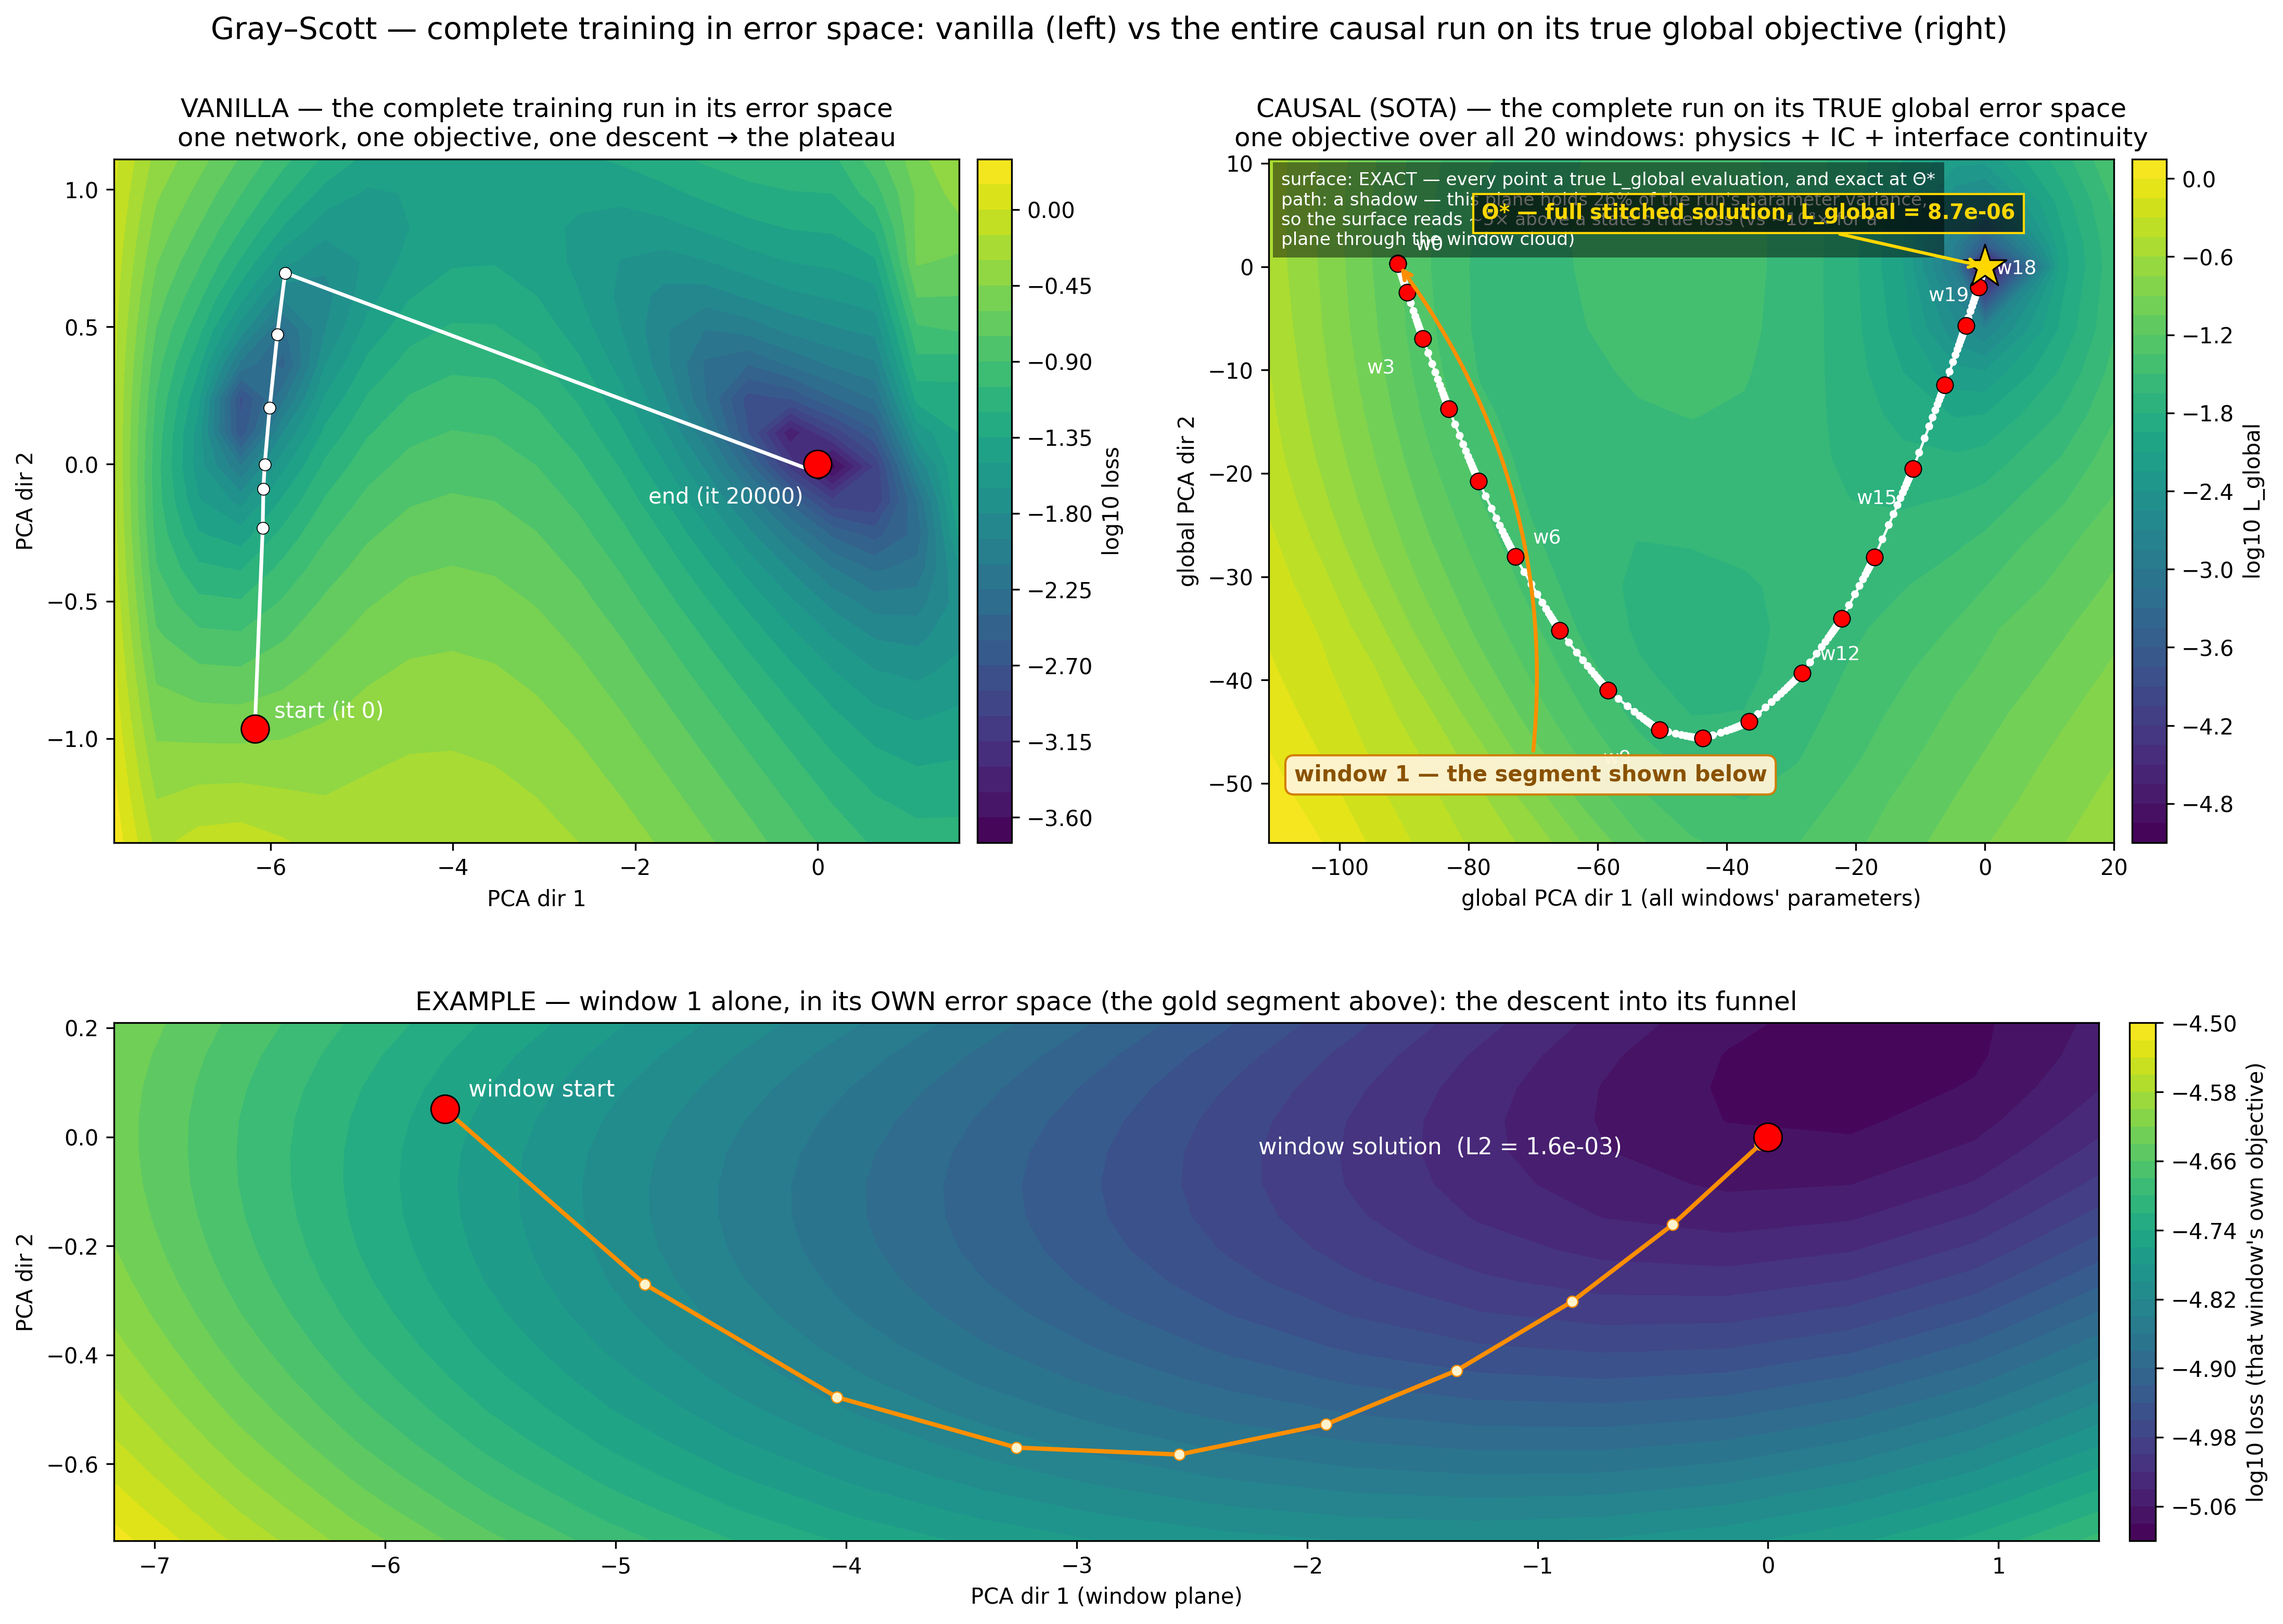
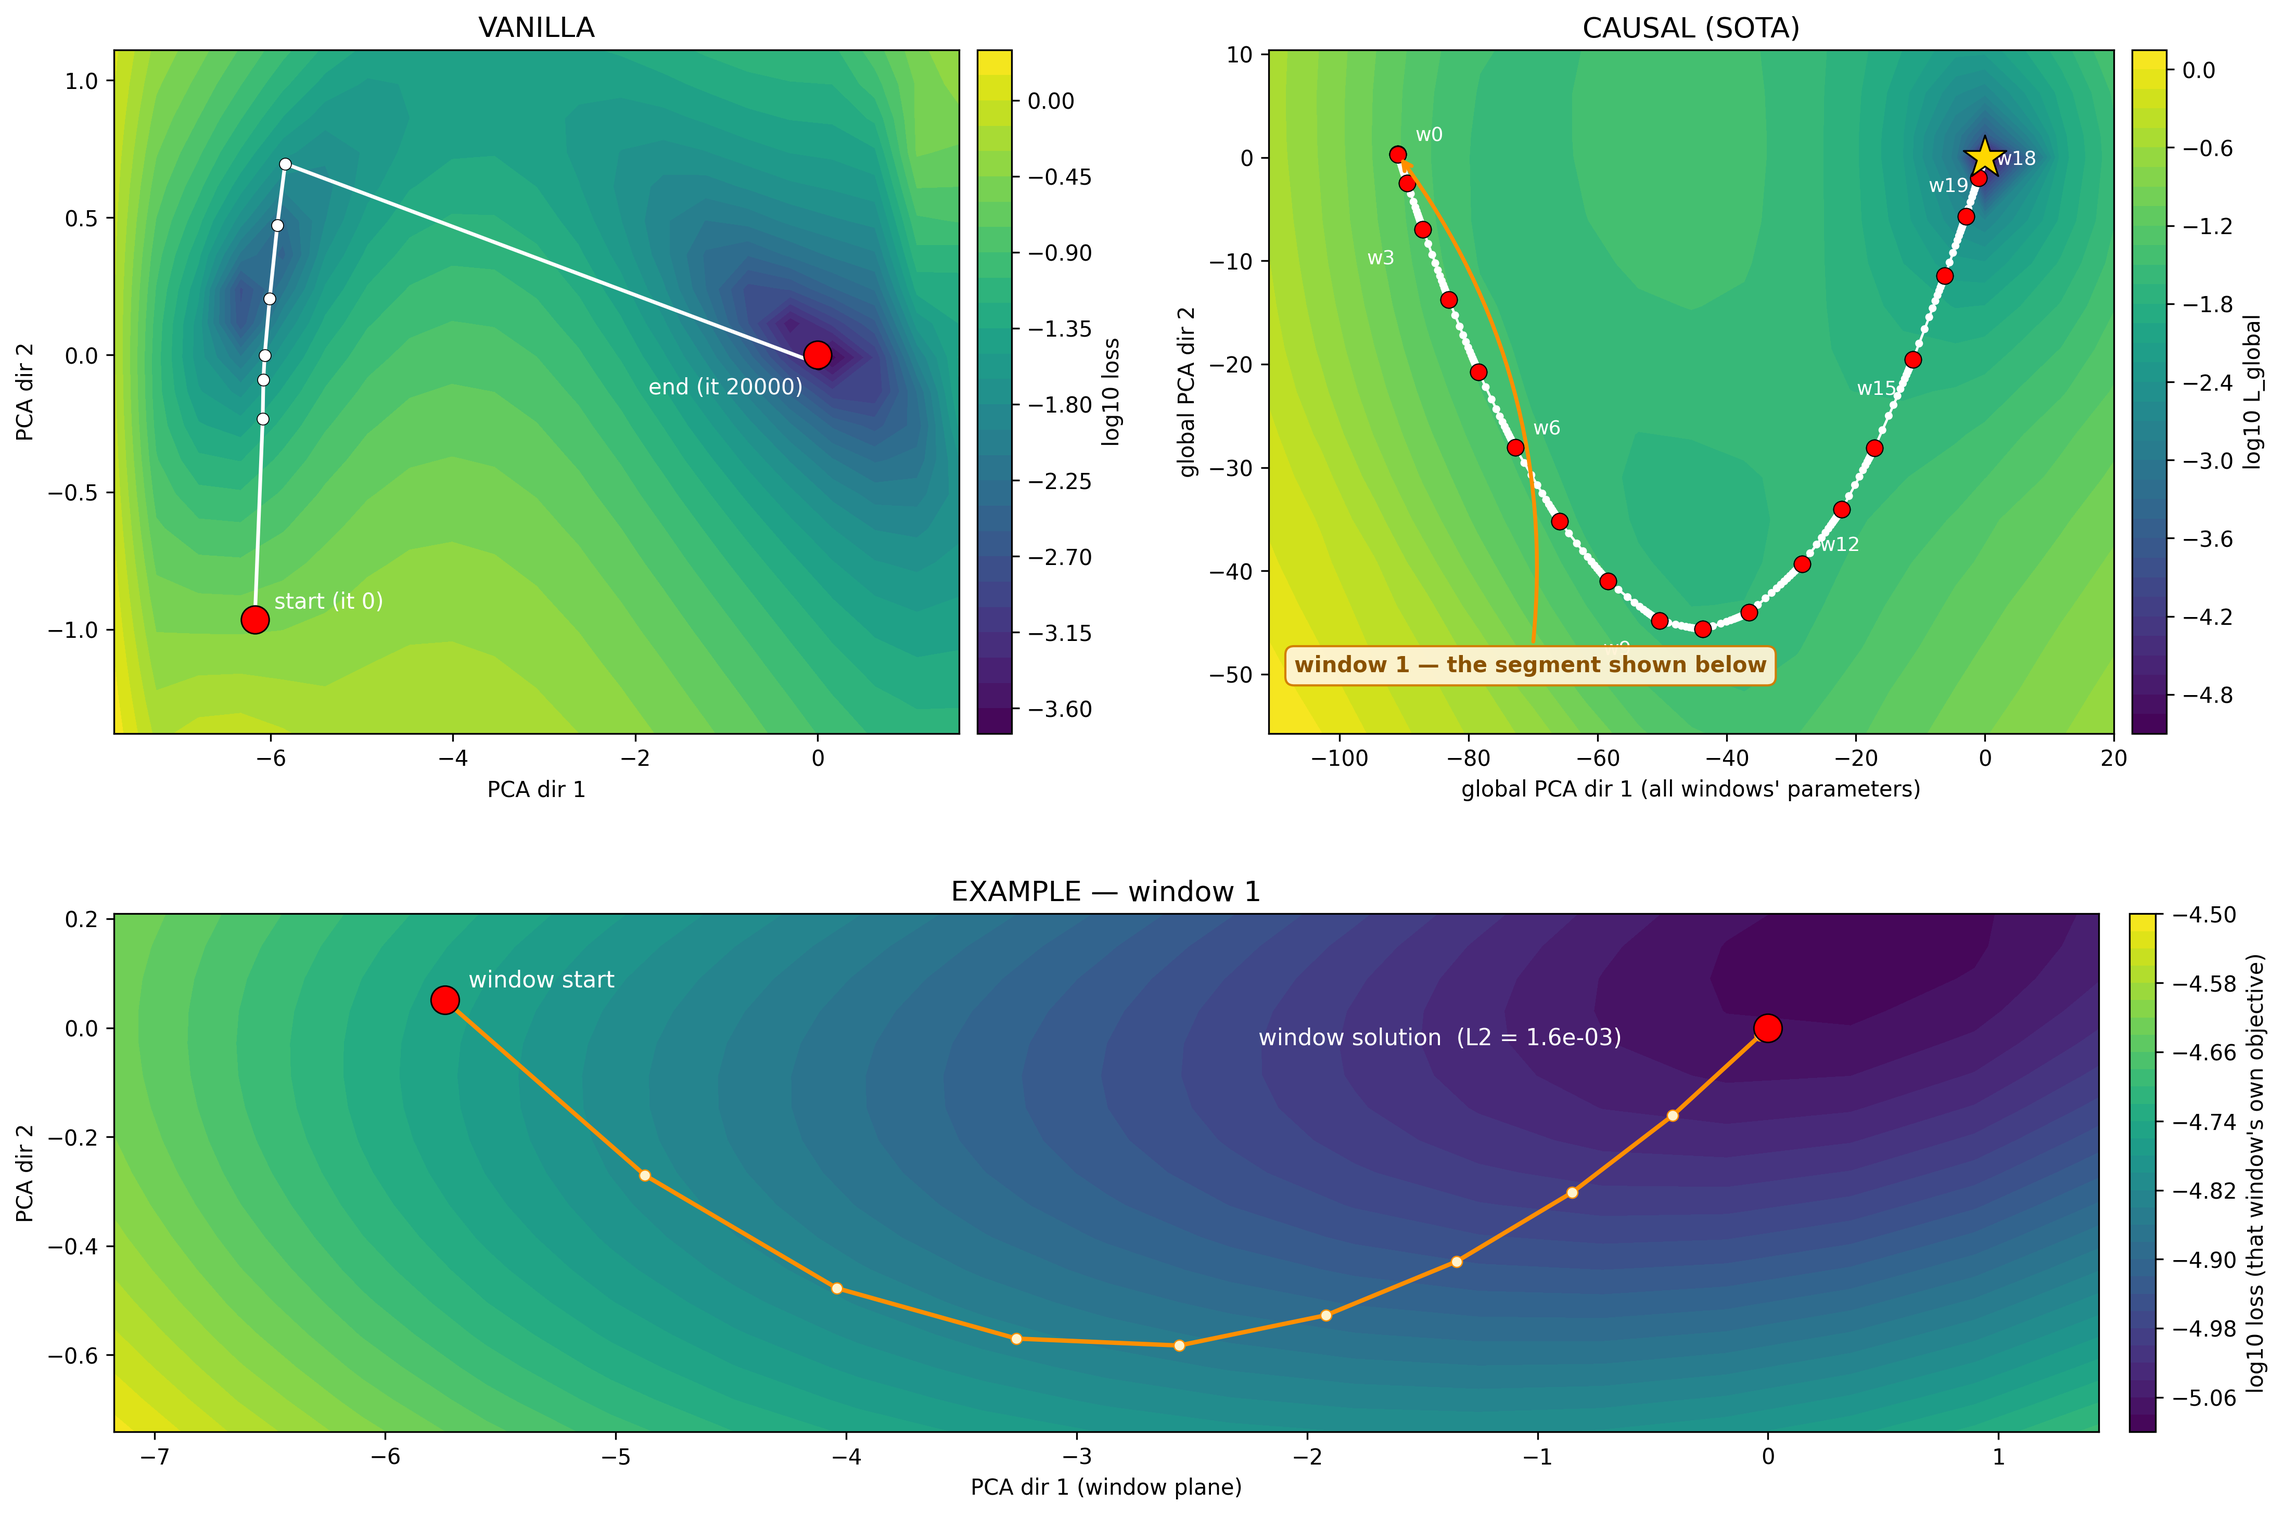
fig31: strip in-figure prose (suptitle, fidelity box, Theta* label, descriptive subtitles) - the report caption carries that text

diff --git a/analysis/plot_three_panel.py b/analysis/plot_three_panel.py
@@ -66,8 +66,7 @@ def main():
                 fontsize=10, xytext=(9, 5), textcoords="offset points")
     ax.annotate(f"end (it {st[-1]})", (van["a_traj"][-1], van["b_traj"][-1]), color="w",
                 fontsize=10, xytext=(-78, -18), textcoords="offset points")
-    ax.set_title("VANILLA — the complete training run in its error space\n"
-                 "one network, one objective, one descent → the plateau", fontsize=12)
+    ax.set_title("VANILLA", fontsize=13)
     ax.set_xlabel("PCA dir 1"); ax.set_ylabel("PCA dir 2")
 
     # ---------------- right: causal on the TRUE global landscape ----------------
@@ -106,23 +105,9 @@ def main():
                                 connectionstyle="arc3,rad=0.2"),
                 bbox=dict(facecolor="#fff4d6", alpha=0.95, edgecolor="#d17a00",
                           boxstyle="round,pad=0.4"))
-    ax.annotate(f"Θ* — full stitched solution, L_global = {res0+ic0+cont0:.1e}", (0, 0),
-                color="gold", fontsize=9.5, fontweight="bold", xytext=(-232, 22),
-                textcoords="offset points", zorder=9,
-                arrowprops=dict(arrowstyle="->", color="gold", lw=1.5),
-                bbox=dict(facecolor="#00000099", edgecolor="gold"))
-    ax.set_title(f"CAUSAL (SOTA) — the complete run on its TRUE global error space\n"
-                 f"one objective over all {N} windows: physics + IC + interface continuity",
-                 fontsize=12)
+    ax.set_title("CAUSAL (SOTA)", fontsize=13)
     ax.set_xlabel("global PCA dir 1 (all windows' parameters)")
     ax.set_ylabel("global PCA dir 2")
-    ax.text(0.015, 0.982,
-            "surface: EXACT — every point a true L_global evaluation, and exact at Θ*\n"
-            f"path: a shadow — this plane holds {ev2*100:.0f}% of the run's parameter variance,\n"
-            f"so the surface reads ~{ratio:.0f}× above a state's true loss (vs ~10⁸× for a\n"
-            "plane through the window cloud)",
-            transform=ax.transAxes, fontsize=8.2, va="top", color="w",
-            bbox=dict(facecolor="#00000077", edgecolor="none"))
 
     # ---------------- bottom: the example window alone ----------------
     ax = fig.add_subplot(gs[1, :])
@@ -140,12 +125,9 @@ def main():
                 xytext=(11, 6), textcoords="offset points")
     ax.annotate(f"window solution  (L2 = {float(cache['p0_l2']):.1e})", (0, 0), color="w",
                 fontsize=10.5, xytext=(-235, -8), textcoords="offset points")
-    ax.set_title(f"EXAMPLE — window {hl} alone, in its OWN error space (the gold segment above): "
-                 "the descent into its funnel", fontsize=12)
+    ax.set_title(f"EXAMPLE — window {hl}", fontsize=13)
     ax.set_xlabel("PCA dir 1 (window plane)"); ax.set_ylabel("PCA dir 2")
 
-    fig.suptitle(f"{cfg['title']} — complete training in error space: vanilla (left) vs the entire "
-                 f"causal run on its true global objective (right)", fontsize=14, y=0.96)
     fig.savefig(f"{OUT}/fig31_vanilla_vs_global_{args.case}.png", dpi=args.dpi,
                 bbox_inches="tight", facecolor="white")
     print(f"saved fig31_vanilla_vs_global_{args.case}.png "
